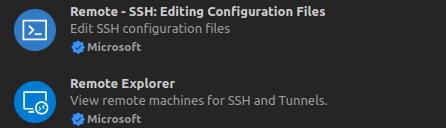
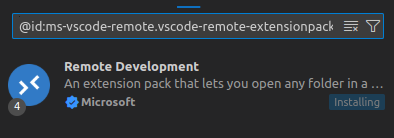
save

Changed region(s): [[0.0305, 0.0312, 0.9746, 0.5312], [0.0, 0.4375, 0.9746, 0.9688], [0.1523, 0.875, 0.335, 1.0]]

diff --git a/Doc/SSH.md b/Doc/SSH.md
@@ -25,7 +25,108 @@ SSH permite la gestión segura de servidores desde cualquier ubicación
 
 ## Conectandonos a nuestro servidor usando SSH
 
+Se estara viendo como hacer una conexion ssh desde nuestro sistema operativo hacia nuestro servidor virtual. En nuestro caso estaremos usando `Debian 12/ Ubuntu 22.0.4` como sistema operativo local.
+
+### Conexión básica: Utiliza nombre de usuario y contraseña
+
+``` bash
+ssh usuario@direccion_ip
+# Ejemplo:
+ssh usuario@123.456.789.012
+```
+
+Este método usa el comando ssh básico digitalocean.com. Cuando te conectas por primera vez, recibirás una advertencia sobre la huella digital del servidor. Debes escribir `"yes"` para aceptarla, luego ingresar tu contraseña cuando se solicite.
+
+#### Pros y Casos de uso
+
+- Simple y rápido de configurar
+- No requiere configuración previa
+- Útil para conexiones ocasionales
+
+### Configuración con claves SSH (método recomendado)
+
+``` bash
+# Generar claves en tu computadora
+ssh-keygen -t rsa
+
+# Copiar la clave pública al servidor
+ssh-copy-id usuario@direccion_ip
+
+# Conectar usando las claves
+ssh usuario@direccion_ip
+```
+
+----
+Una vez hayas terminado de ejecutar este bash, te aparecera en la consola algo parecido a esto:
+
+```bash
+Number of key(s) added: 1
+
+Now try logging into the machine, with:   "ssh 'xxxx@xx.xxx.xxx.xxx'"
+and check to make sure that only the key(s) you wanted were added.
+```
+
+----
+Alternativamente si kieres comprobar tus llaves privadas puedes listar estas con el bash en `Ubuntu/Debian`
+
+``` bash
+ls -l ~/.ssh/id_rsa*
+```
+
+Debe lanzar un resultado parecido a este:
+
+``` bash
+rb58853@rb58853-Inspiron-7570:~$ ls -l ~/.ssh/id_rsa*
+-rw------- 1 rb58853 rb58853 2675 May  4 17:27 /home/rb58853/.ssh/id_rsa
+-rw-r--r-- 1 rb58853 rb58853  583 May  4 17:27 /home/rb58853/.ssh/id_rsa.pub
+```
+
+Para abrir la carpeta que contiene tus llaves ssh usando:
+
+``` bash
+open  ~/.ssh/
+```
+
+----
+
+Este método genera un par de claves: una privada (que mantienes segura en tu computadora) y una pública (que se copia al servidor) digitalocean.com. Una vez configurado, las conexiones posteriores son automáticas y más seguras.
+
+#### Pros y casos de uso
+
+- Máxima seguridad
+- No necesitas recordar contraseñas
+- Ideal para conexiones frecuentes
+
+### Resultado
+
+Una vez hayas establecido conexion con el vps te aparecera algo parecido a lo mostrado en lo siguiente. En este caso se esta usando un VPS de del distribuidor [Contabo](https://contabo.com/) con sistema operativo instalado `Debian 12`.
+
+``` bash
+rb58853@rb58853-Inspiron-7570:~$ ssh root@xx.xxx.xxx.xxx
+Linux vmi2084482.contaboserver.net 6.1.0-10-amd64 #1 SMP PREEMPT_DYNAMIC Debian 6.1.37-1 (2023-07-03) x86_64
+  _____
+ / ___/___  _  _ _____ _   ___  ___
+| |   / _ \| \| |_   _/ \ | _ )/ _ \
+| |__| (_) | .` | | |/ _ \| _ \ (_) |
+ \____\___/|_|\_| |_/_/ \_|___/\___/
+
+Welcome!
+
+This server is hosted by Contabo. If you have any questions or need help,
+please don't hesitate to contact us at support@contabo.com.
+
+Last login: Sun May  4 23:55:46 2025 from 152.206.243.67
+root@vmi2084482:~# 
+
+
+```
+
+Puede usar el comando `exit` para salir de la terminal del VPS.
+
 ## Conectandonos a Nuestro servidor usando SSH y Remote explorer en VScode
 
-Para poder usar remote explorer en vs code, es ncesario instalar las extensiones: [ms-vscode-remote.remote-ssh-edit](https://marketplace.visualstudio.com/items/?itemName=ms-vscode-remote.remote-ssh-edit) y [ms-vscode.remote-explorer](https://marketplace.visualstudio.com/items/?itemName=ms-vscode.remote-explorer).
+Para poder usar remote explorer en vs code, es ncesario instalar la extension [Remote Development](https://marketplace.visualstudio.com/items?itemName=ms-vscode-remote.vscode-remote-extensionpack). Para esto presione `Ctrl+p` y escriba `ext install ms-vscode-remote.vscode-remote-extensionpack`.
+
 ![alt text](../images/sshVScode.png)
+
+Una vez instalada dicha extension, podras acceder al menu de remote explorer para agregar tu conexion SSH.

diff --git a/Doc/VPS.md b/Doc/VPS.md
@@ -1,0 +1,37 @@
+# VPS (Servidor Privado Virtual)
+
+## Overview
+
+Un VPS es un entorno virtual aislado que funciona como un servidor dedicado dentro de un servidor físico compartido
+. Es como tener una habitación privada en un restaurante, donde tienes control total sobre tu espacio aunque compartas el edificio con otros
+.
+
+### Características Principales
+
+- Recursos dedicados garantizados
+- Mayor control y personalización
+- Mejor rendimiento que el hosting compartido
+- Capacidad de escalabilidad
+- Mayor seguridad y aislamiento
+
+### Sistema Operativo
+
+Se suele instalar un sistema operativo de preferencia (Linux o Windows)
+, permitiendo:
+
+- Control total sobre el entorno
+- Instalación de software específico
+- Configuración personalizada
+- Gestión de recursos asignados
+
+En este caso particular se estara trabajando sobre un VPS con el sistema operativo instalado: [Ubuntu 24.04](https://ubuntu.com/blog/tag/ubuntu-24-04-lts)
+
+## Instalacion de bibliotecas y herramientas
+
+La herramienta mas importante que estaremos instalando en nuestro VPS sera docker. Primero debemos [establecer una conexion con nuestro servidor](./SSH.md#conectandonos-a-nuestro-servidor-usando-ssh) y una vez estemos en el mismo, comenzar con las instalaciones.
+
+### Docker
+
+Una vez este abierto nuestro VPS procederemos a instalar docker en el mismo.
+
+#### Ubuntu/Debian

diff --git a/readme.md b/readme.md
@@ -1,6 +1,6 @@
 # Implementaciones de Servidores Virtuales Privados (VPS)
 
-Este repositorio documenta sistemáticamente experiencias técnicas y mejores prácticas para el despliegue de infraestructuras en entornos VPS, así como en servicios cloud y ambientes locales de prueba.
+Este repositorio documenta sistemáticamente experiencias técnicas y mejores prácticas para el despliegue de infraestructuras en entornos VPS, así como en ambientes locales de prueba.
 
 ## Protocolo Secure Shell (SSH)
 
